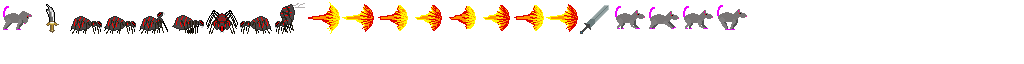
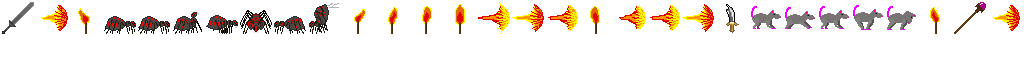
Add Torches and layer in TiledMap

Changed region(s): [[0.0, 0.0312, 1.0, 0.5312]]

diff --git a/core/src/com/epiklp/game/actors/weapons/Sword.java b/core/src/com/epiklp/game/actors/weapons/Sword.java
@@ -1,15 +1,13 @@
 package com.epiklp.game.actors.weapons;
 
 import com.badlogic.gdx.math.Vector2;
-import com.badlogic.gdx.physics.box2d.Body;
 import com.badlogic.gdx.physics.box2d.joints.RevoluteJoint;
-import com.badlogic.gdx.physics.box2d.joints.RevoluteJointDef;
 import com.epiklp.game.Cave;
+import com.epiklp.game.actors.characters.GameCharacter;
 import com.epiklp.game.functionals.Assets;
 import com.epiklp.game.functionals.b2d.BodyCreator;
 import com.epiklp.game.functionals.b2d.JointCreator;
 import com.epiklp.game.functionals.b2d.TheBox;
-import com.epiklp.game.actors.characters.GameCharacter;
 
 /**
  * Created by Asmei on 2018-02-11.
@@ -18,28 +16,34 @@ import com.epiklp.game.actors.characters.GameCharacter;
 public class Sword extends Weapon {
     private float time;
     RevoluteJoint joint;
-    public Sword(GameCharacter gameCharacterRef, int hitPoints, boolean turn){
-        super(Assets.manager.get(Assets.textureAtlas).createSprite("sejminar", -1), 22f, 34, hitPoints, gameCharacterRef);
+
+    public Sword(GameCharacter gameCharacterRef, int hitPoints, boolean turn) {
+        super(Assets.manager.get(Assets.textureAtlas).createSprite("sword", -1), 22f, 34, hitPoints, gameCharacterRef);
         this.turn = turn;
-        time = 0.4f;
+        time = 4f;
         float x = gameCharacterRef.getBody().getPosition().x * Cave.PPM / Cave.SCALE;
         float y = gameCharacterRef.getBody().getPosition().y * Cave.PPM / Cave.SCALE;
 
-        body = BodyCreator.createBody(x + (turn ? 22 : -22), y+30, false, false);
-        BodyCreator.createBoxSensor(body, 20f, 34f, .00001f, 0, new Vector2(0,0), this);
+        body = BodyCreator.createBody(x + (turn ? 22 : -22), y + 30, false, false);
+        BodyCreator.createBoxSensor(body, 20f, 34f, .00001f, 0, new Vector2(0, 0), this);
+        //BodyCreator.createShape(body, 0.0001f, 0f, new Vector2(0, -1.3f), new Vector2(1.3f, 1.5f), new Vector2(-1.3f, 1.5f));
         body.setUserData(this);
         body.setGravityScale(0);
+//        body.setTransform(x + (turn ? 22 : -22), y+30, (turn ? -.25f : .25f));
 
         JointCreator.initialRevoluteJoint(gameCharacterRef.getBody(), body, false,
-                new Vector2(0.6f * (turn ? 2 : -2), 30/Cave.PPM), new Vector2(0, -34/Cave.PPM));
+                new Vector2(0.6f * (turn ? 2 : -2), 30 / Cave.PPM), new Vector2(0, -34 / Cave.PPM));
+        //JointCreator.initialRevoluteJoint(gameCharacterRef.getBody(), body, false,
+        //                new Vector2(0.5f * (turn ? 2 : -2), 30/Cave.PPM), new Vector2(-0.75f, -1.1f));
 
-        if(turn){
+        if (turn) {
             JointCreator.setLimitForRevoluteJoint(true, -1.7f, 0f, -1.5f);
             JointCreator.setMotorForRevoluteJoint(true, -12f, 50f);
-        }else{
+        } else {
             JointCreator.setLimitForRevoluteJoint(0f, 1.7f);
             JointCreator.setMotorForRevoluteJoint(true, 12f, 50f);
         }
+
 
         joint = JointCreator.createRevoluteJoint();
     }

diff --git a/core/src/com/epiklp/game/game/GameScreen.java b/core/src/com/epiklp/game/game/GameScreen.java
@@ -5,6 +5,7 @@ import com.badlogic.gdx.InputMultiplexer;
 import com.badlogic.gdx.Screen;
 import com.badlogic.gdx.graphics.GL20;
 import com.badlogic.gdx.graphics.OrthographicCamera;
+import com.badlogic.gdx.maps.Map;
 import com.badlogic.gdx.maps.tiled.TiledMap;
 import com.badlogic.gdx.maps.tiled.TmxMapLoader;
 import com.badlogic.gdx.maps.tiled.renderers.OrthogonalTiledMapRenderer;
@@ -16,6 +17,7 @@ import com.badlogic.gdx.utils.Array;
 import com.badlogic.gdx.utils.viewport.ExtendViewport;
 import com.badlogic.gdx.utils.viewport.Viewport;
 import com.epiklp.game.Cave;
+import com.epiklp.game.actors.GameObject;
 import com.epiklp.game.functionals.Controller;
 import com.epiklp.game.functionals.GameContactListener;
 import com.epiklp.game.functionals.MapBuilder;
@@ -51,6 +53,7 @@ public class GameScreen implements Screen {
     private Hero hero;
 
     private Array<Enemy> enemies;
+    private Array<GameObject> items;
     private Array<Body> mapBodies;
 
     private GameContactListener gameContactListener;
@@ -71,12 +74,16 @@ public class GameScreen implements Screen {
         map = new TmxMapLoader().load("Map/tmp.tmx"); //mapa  odpowiednimi wymiarami mieniona 32x32
 
         tmr = new OrthogonalTiledMapRenderer(map, 2f);
-        mapBodies = MapBuilder.parseTiledObjectLayer(TheBox.world, map.getLayers().get("collision").getObjects());
+        mapBodies = MapBuilder.parseTiledObjectLayer(map.getLayers().get("collision").getObjects());
         hero = MapBuilder.parseHeroFromObjectLayer(map.getLayers().get("characters").getObjects());
+        items = MapBuilder.parseItemsAndObjectFromObjectLayer(map.getLayers().get("items").getObjects());
         stage.addActor(hero);
         enemies = MapBuilder.parseEnemiesFromObjectLayer(map.getLayers().get("characters").getObjects());
         for (Enemy ac : enemies) {
             stage.addActor(ac);
+        }
+        for (GameObject i : items) {
+            stage.addActor(i);
         }
         MenuPause = new PauseMenu();
 

diff --git a/core/src/com/epiklp/game/functionals/GameContactListener.java b/core/src/com/epiklp/game/functionals/GameContactListener.java
@@ -7,6 +7,7 @@ import com.badlogic.gdx.physics.box2d.Fixture;
 import com.badlogic.gdx.physics.box2d.Manifold;
 import com.epiklp.game.actors.characters.Enemy;
 import com.epiklp.game.actors.characters.Hero;
+import com.epiklp.game.actors.weapons.FireBall;
 import com.epiklp.game.actors.weapons.Weapon;
 
 /**
@@ -70,15 +71,20 @@ public class GameContactListener implements ContactListener {
             return;
         }
         //Missile gets wall
+        //If inside is only temporarry
         if (a.getBody().getUserData() instanceof Weapon && Utils.equalsWithNulls(b.getBody().getUserData(), "MapBuilder")) {
             Weapon weapon = (Weapon) a.getBody().getUserData();
-            weapon.setToDelete();
-            weapon.getBody().getFixtureList().first().getFilterData().maskBits = (short)0;
+            if (weapon instanceof FireBall) {
+                weapon.setToDelete();
+                weapon.getBody().getFixtureList().first().getFilterData().maskBits = (short) 0;
+            }
             return;
         } else if (Utils.equalsWithNulls(a.getBody().getUserData(), "MapBuilder") && b.getBody().getUserData() instanceof Weapon) {
             Weapon weapon = (Weapon) b.getBody().getUserData();
-            weapon.setToDelete();
-            weapon.getBody().getFixtureList().first().getFilterData().maskBits = (short)0;
+            if (weapon instanceof FireBall) {
+                weapon.setToDelete();
+                weapon.getBody().getFixtureList().first().getFilterData().maskBits = (short) 0;
+            }
             return;
         }
 

diff --git a/core/src/com/epiklp/game/functionals/MapBuilder.java b/core/src/com/epiklp/game/functionals/MapBuilder.java
@@ -13,10 +13,12 @@ import com.badlogic.gdx.physics.box2d.Shape;
 import com.badlogic.gdx.physics.box2d.World;
 import com.badlogic.gdx.utils.Array;
 import com.epiklp.game.Cave;
+import com.epiklp.game.actors.GameObject;
 import com.epiklp.game.actors.characters.Enemy;
 import com.epiklp.game.actors.characters.Hero;
 import com.epiklp.game.actors.characters.Rat;
 import com.epiklp.game.actors.characters.Spider;
+import com.epiklp.game.actors.items.Torch;
 import com.epiklp.game.functionals.b2d.BodyCreator;
 
 
@@ -45,7 +47,20 @@ public class MapBuilder {
         }
         return enemies;
     }
-    public static Array<Body> parseTiledObjectLayer(World world, MapObjects objects) {
+
+    public static Array<GameObject> parseItemsAndObjectFromObjectLayer(MapObjects objects){
+        Array<GameObject> items = new Array<GameObject>();
+        for (MapObject object : objects) {
+            if (object instanceof RectangleMapObject) {
+                RectangleMapObject en = ((RectangleMapObject) object);
+                if(Utils.equalsWithNulls(object.getName(), Torch.class.getSimpleName())){
+                    items.add(new Torch(en.getRectangle().x, en.getRectangle().y));
+                }
+            }
+        }
+        return items;
+    }
+    public static Array<Body> parseTiledObjectLayer(MapObjects objects) {
         Array<Body> bodies = new Array<Body>();
         for (MapObject object : objects) {
             Shape shape;

diff --git a/core/src/com/epiklp/game/actors/items/Torch.java b/core/src/com/epiklp/game/actors/items/Torch.java
@@ -1,0 +1,42 @@
+package com.epiklp.game.actors.items;
+
+import com.badlogic.gdx.graphics.Color;
+import com.badlogic.gdx.graphics.g2d.Animation;
+import com.badlogic.gdx.graphics.g2d.Sprite;
+import com.badlogic.gdx.utils.Array;
+import com.epiklp.game.actors.GameObject;
+import com.epiklp.game.functionals.Assets;
+import com.epiklp.game.functionals.b2d.BodyCreator;
+import com.epiklp.game.functionals.b2d.TheBox;
+
+/**
+ * Created by Asmei on 2018-02-12.
+ */
+
+public class Torch extends GameObject {
+
+    public Torch(float x, float y) {
+        super(Assets.manager.get(Assets.textureAtlas).createSprite("torch",0), 16, 20);
+
+        body = BodyCreator.createBody(x, y, false);
+        BodyCreator.createBoxSensor(body, 16f, 20f);
+        light = TheBox.createPointLight(body, 64, new Color(1.000f, 0.498f, 0.314f, .9f), 6, 0, 0);
+        body.setGravityScale(0);
+
+
+        Array<Sprite> sprites = Assets.manager.get(Assets.textureAtlas).createSprites("torch");
+        animator.addNewFrames(0.17f, sprites, STATE.ITEM, Animation.PlayMode.LOOP);
+    }
+
+    @Override
+    public void act(float delta) {
+        super.act(delta);
+        animate(delta, STATE.ITEM);
+    }
+
+
+    @Override
+    public void initStats() {
+
+    }
+}

diff --git a/core/src/com/epiklp/game/functionals/b2d/BodyCreator.java b/core/src/com/epiklp/game/functionals/b2d/BodyCreator.java
@@ -8,6 +8,8 @@ import com.badlogic.gdx.physics.box2d.PolygonShape;
 import com.badlogic.gdx.physics.box2d.Shape;
 import com.epiklp.game.Cave;
 
+import sun.security.provider.SHA;
+
 /**
  * Created by Asmei on 2018-02-12.
  */
@@ -55,6 +57,16 @@ public class BodyCreator {
         shape.dispose();
     }
 
+    public static void createShape(Body body, float density, float friction, Vector2 ... verticles) {
+        PolygonShape shape = new PolygonShape();
+        shape.set(verticles);
+        fixDef.shape = shape;
+        fixDef.density = density;
+        fixDef.friction = friction;
+        fixDef.isSensor = false;
+        body.createFixture(fixDef);
+        shape.dispose();
+    }
     //UserData is null
     public static void createBoxShape(Body body, float width, float height, float density, float friction) {
         createBoxShape(body, width, height, density, friction, null);

diff --git a/core/src/com/epiklp/game/actors/characters/Hero.java b/core/src/com/epiklp/game/actors/characters/Hero.java
@@ -41,7 +41,7 @@ public class Hero extends GameCharacter implements Shootable {
         BodyCreator.createBoxSensor(body, 10f, 10f, new Vector2(0, -60), JUMP_SENSOR);
         BodyCreator.createBoxSensor(body, 32f, 45f, new Vector2(0, -5), CLIMB_SENSOR);
         body.setUserData(this);
-        light = TheBox.createPointLight(body, 720, new Color(1.000f, 0.549f, 0.000f, .8f), 10, -2, -2);
+       // light = TheBox.createPointLight(body, 720, new Color(1.000f, 0.549f, 0.000f, .8f), 10, -2, -2);
         initStats();
 
     }

diff --git a/core/src/com/epiklp/game/functionals/b2d/TheBox.java b/core/src/com/epiklp/game/functionals/b2d/TheBox.java
@@ -70,7 +70,7 @@ public class TheBox {
         RayHandler.setGammaCorrection(false);
         RayHandler.useDiffuseLight(false);
         rayHandler = new RayHandler(TheBox.world);
-        rayHandler.setAmbientLight(1); //0.2f
+        rayHandler.setAmbientLight(0.2f); //0.2f
         rayHandler.setCulling(true);
         rayHandler.setShadows(true);
         Light.setGlobalContactFilter(TheBox.CATEGORY_LIGHT, (short) 0, TheBox.MASK_LIGHT);
